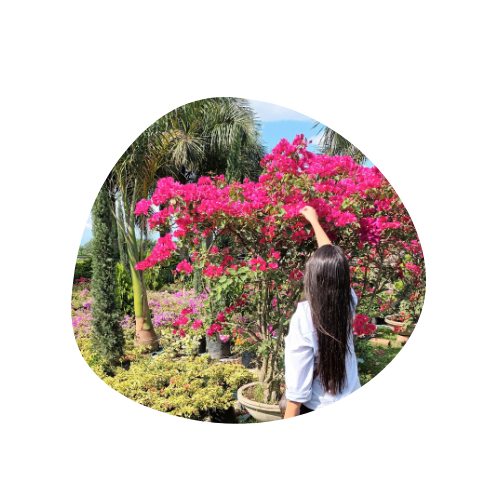
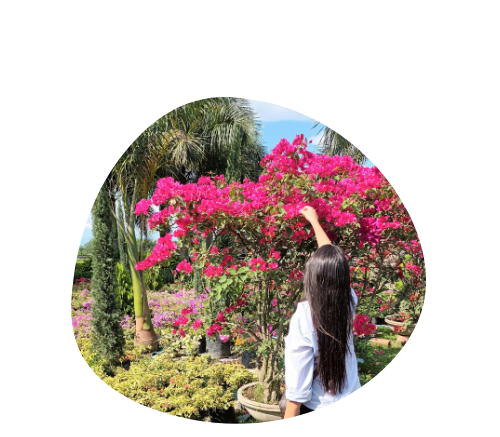
subiendo header, falta perfeccionar para responsive

diff --git a/src/Components/Header.jsx b/src/Components/Header.jsx
@@ -7,12 +7,12 @@ import { faLinkedin, faGithub } from '@fortawesome/free-brands-svg-icons';
 const Header = () => {
   return (
     <div className="flex justify-center items-center p-4 bg-header-color" style={{height: '40vh'}}>
-      <div>
-        <img style={{height: '35vh'}} src={fotoPerfil} alt="foto de perfil" />
-        <div className='flex'>
-          <img className = "mr-5 mt-2 w-6 h-6" src={iconoM} alt="logo M" />
-          <FontAwesomeIcon icon={faLinkedin} style={{ color: "#e7e7e7" }} className = "mr-5 mt-2 w-6 h-6"/>
-          <FontAwesomeIcon icon={faGithub} style={{ color: "#e7e7e7" }} className = "mr-5 mt-2 w-6 h-6"/>
+      <div className="flex flex-col items-center">
+        <img className="mb-2" style={{height: '25vh'}} src={fotoPerfil} alt="foto de perfil" />
+        <div className="flex justify-center items-center text-center rounded-3xl mt-0 mb-10 p-2" style={{background: 'linear-gradient(to right, #996dff, #591ffa)', height: '5vh', width: '10vw'}}>
+          <img className = "mr-8 mt-2 w-4 h-4" src={iconoM} alt="logo M" />
+          <FontAwesomeIcon icon={faLinkedin} style={{ color: "#e7e7e7" }} className = "mr-8 mt-2 w-4 h-4"/>
+          <FontAwesomeIcon icon={faGithub} style={{ color: "#e7e7e7" }} className = "mt-2 w-4 h-4"/>
         </div>
       </div>
       
